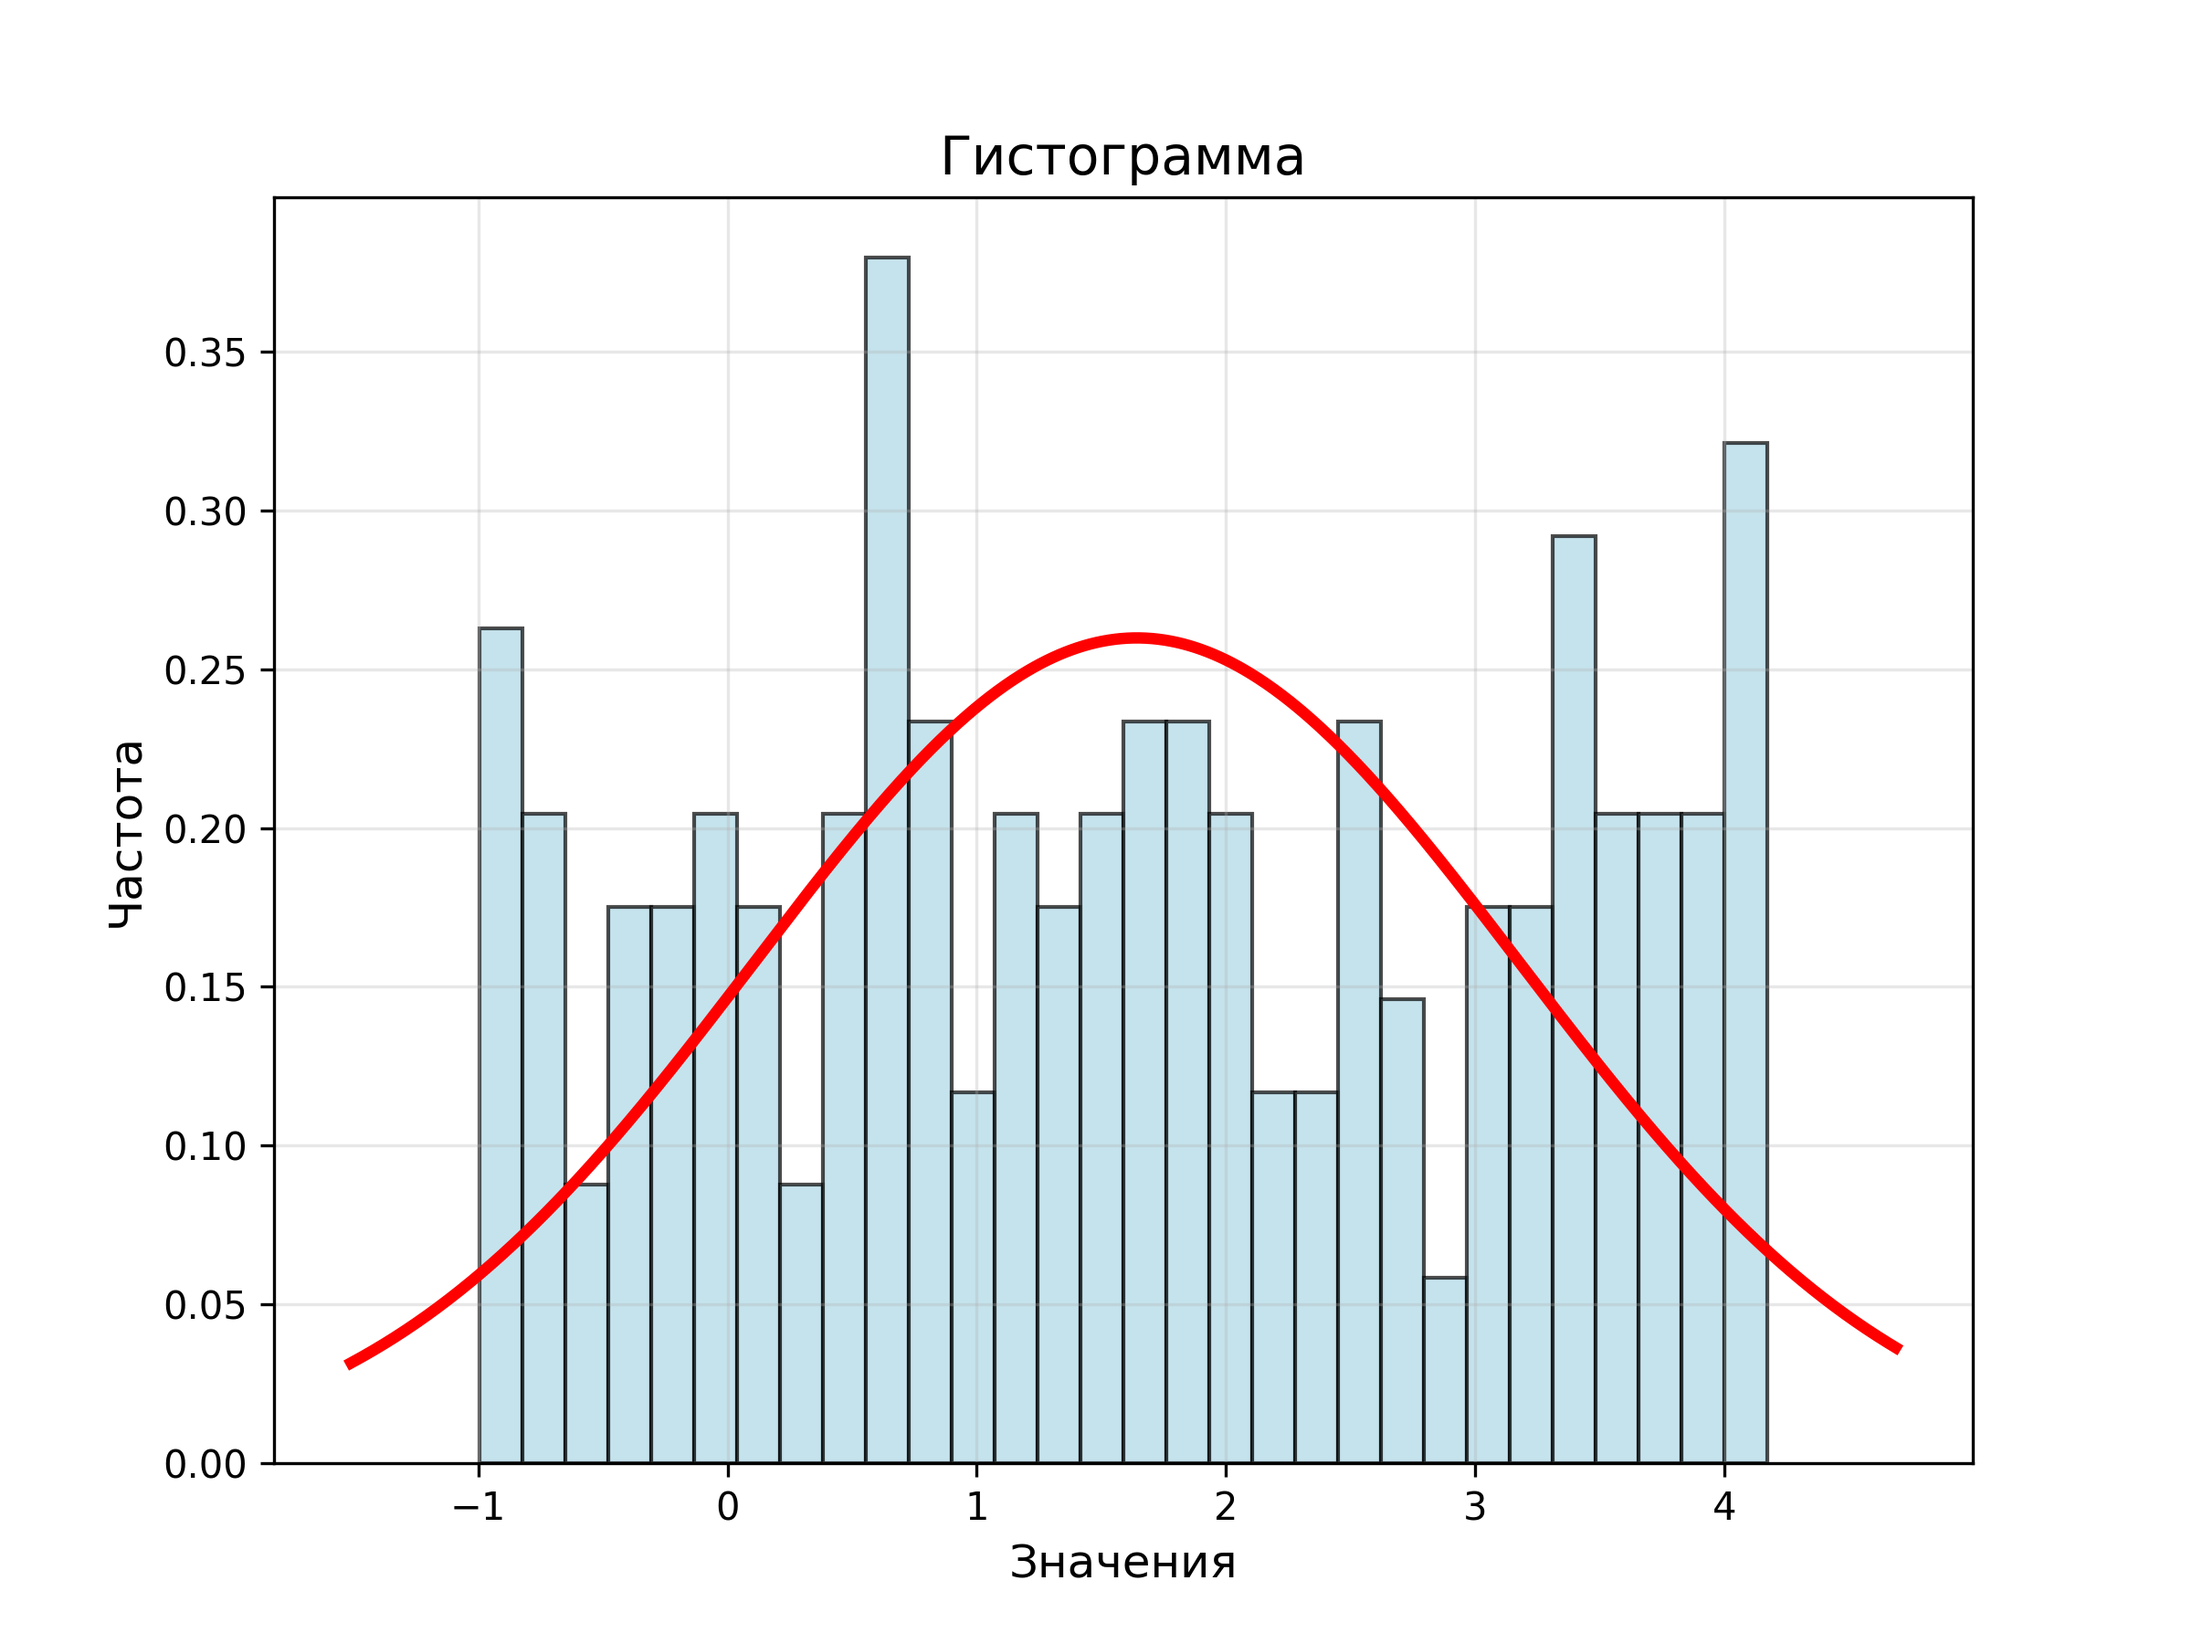
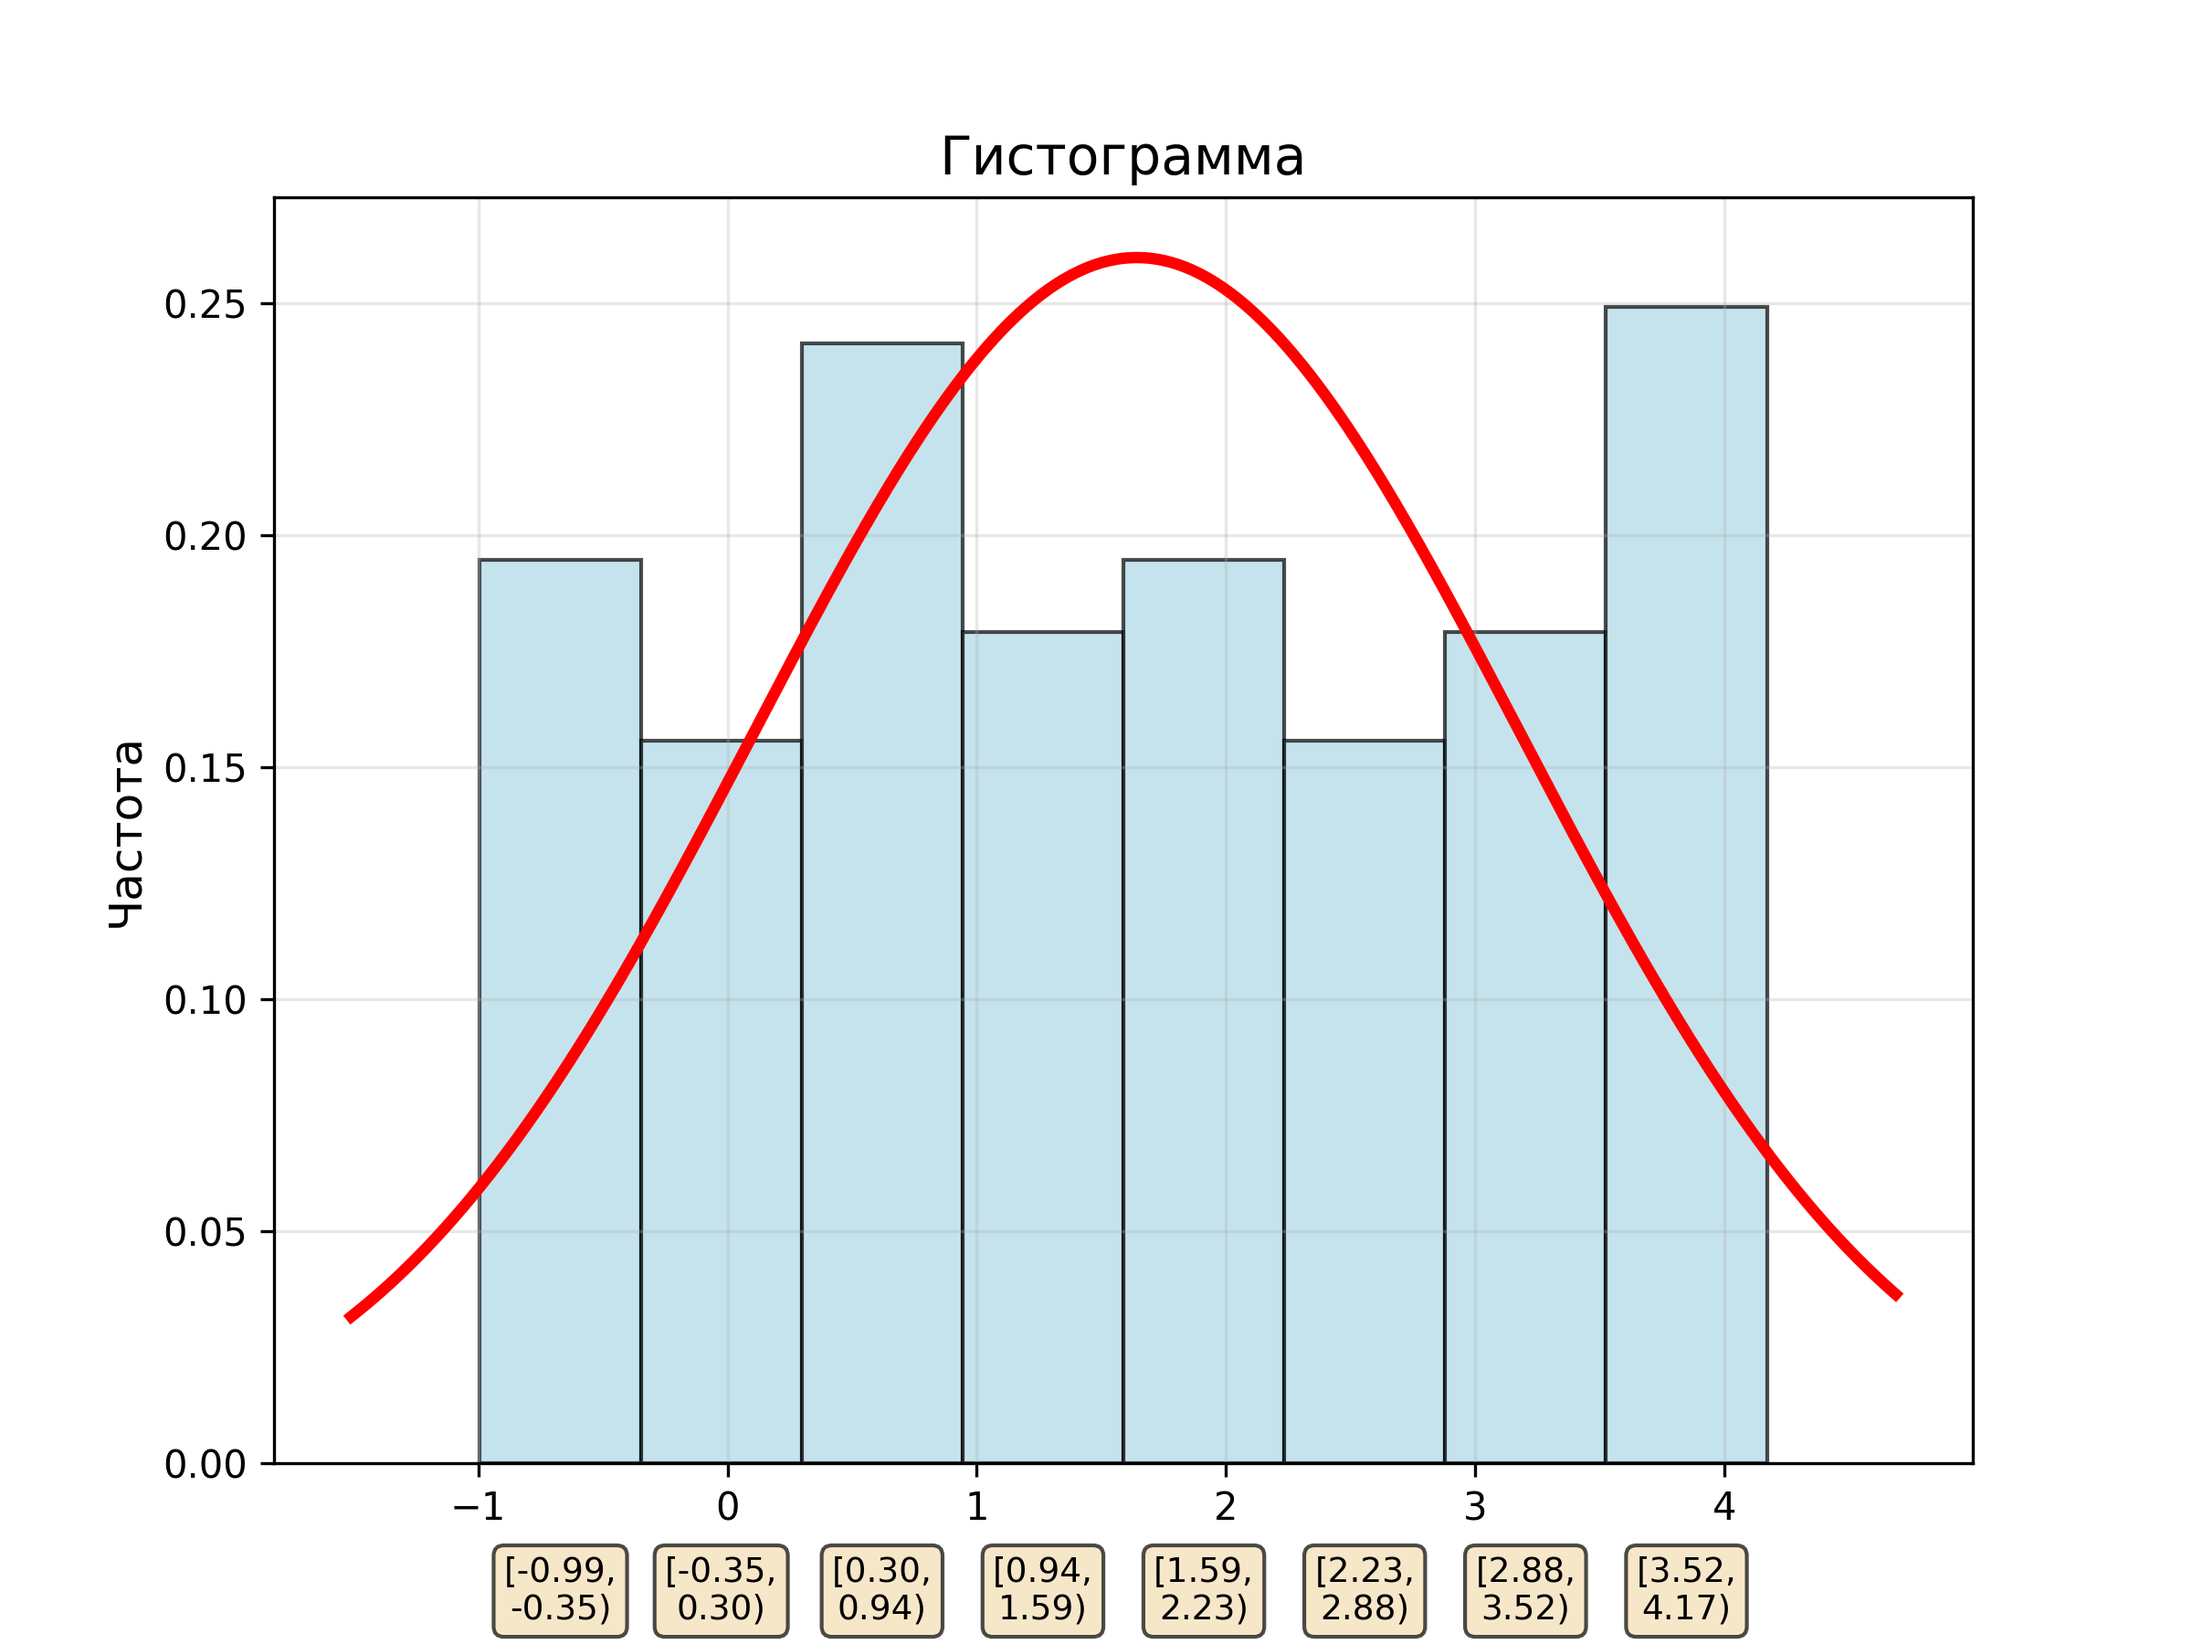
Гистограмма обнавлена.

diff --git a/main.py b/main.py
@@ -1,3 +1,5 @@
+import math
+
 import numpy as np
 import pandas as pd
 import matplotlib.pyplot as plt
@@ -41,10 +43,22 @@ def gist(data):
         data = np.array(data).flatten()
     mean = np.mean(data)
     sigma_est = np.std(data)
+    k = int(1 + math.log2(len(data)))
+
+    data_min = data.min()
+    data_max = data.max()
+    bins_fixed = np.linspace(data_min, data_max, k + 1)
     plt.figure(figsize=(8, 6))
-    plt.hist(data, bins=30, density=True,
+    counts, bins, patches=plt.hist(data, bins=bins_fixed, density=True,
                                 edgecolor='black', alpha=0.7,
                                 color='lightblue', label='Гистограмма')
+    for i in range(len(bins) - 1):
+        x_center = bins[i] + (bins[i + 1] - bins[i]) / 2
+        interval_label = f'[{bins[i]:.2f},\n{bins[i + 1]:.2f})'
+
+        plt.text(x_center, -max(counts) * 0.08, interval_label,
+                 ha='center', va='top', fontsize=9,
+                 bbox=dict(boxstyle="round,pad=0.3", facecolor="wheat", alpha=0.7))
     data_min, data_max = data.min(), data.max()
     data_range = data_max - data_min
     x_min = data_min - 0.1 * data_range
@@ -54,7 +68,6 @@ def gist(data):
     plt.plot(x, p, 'r-', linewidth=3,
              label=f'Нормальное распределение\nμ={mean:.2f}, σ={sigma_est:.2f}')
     plt.title('Гистограмма', fontsize=14)
-    plt.xlabel('Значения', fontsize=12)
     plt.ylabel('Частота', fontsize=12)
     plt.grid(True, alpha=0.3)
     plt.savefig("gistogramm.png", dpi=300)
